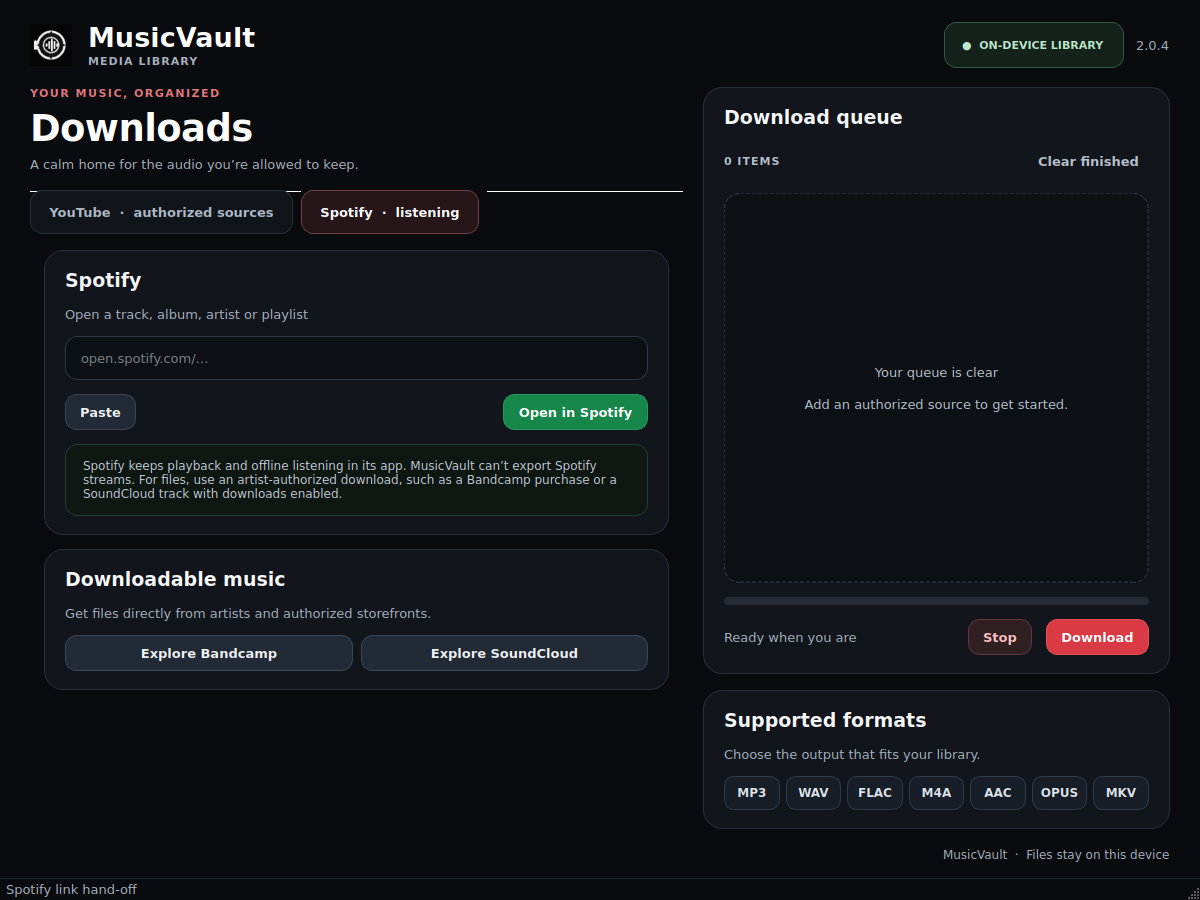
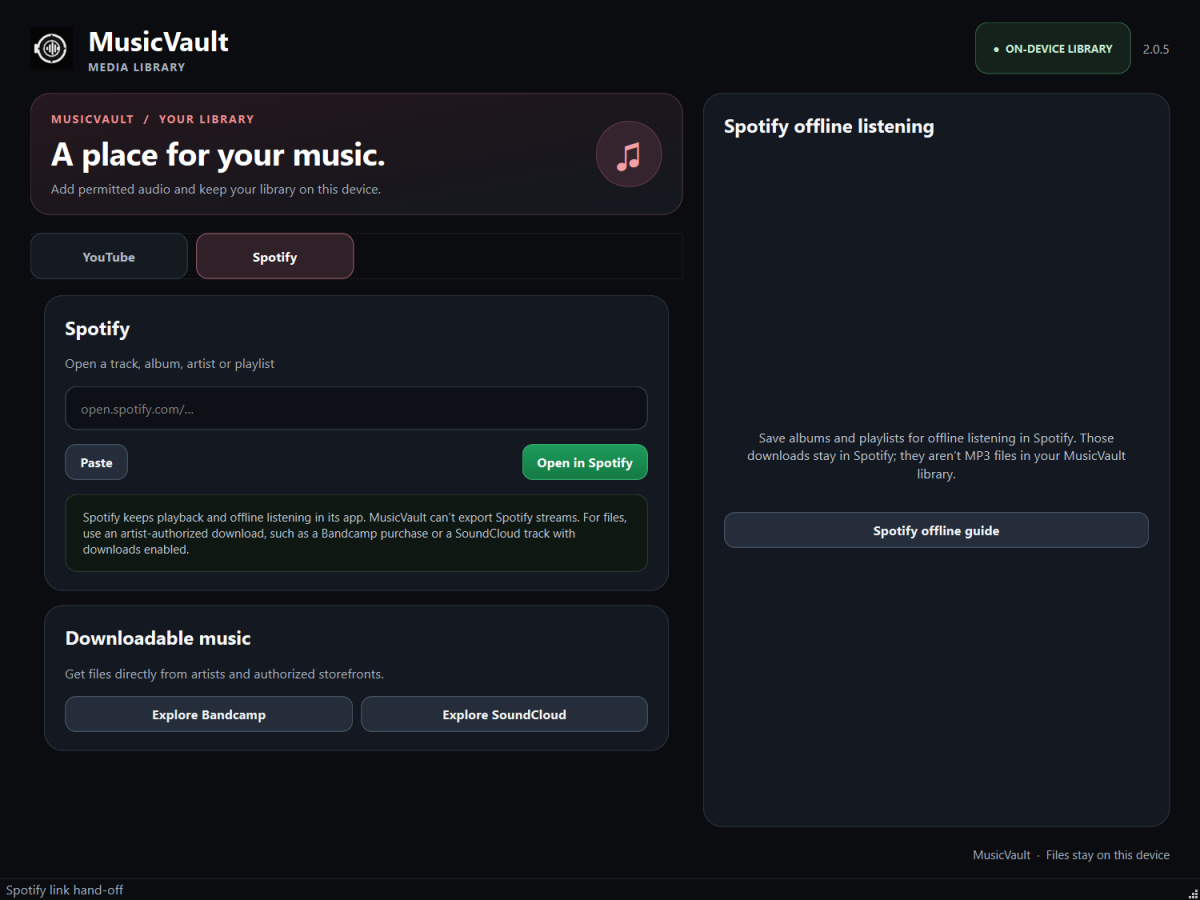
Refresh desktop UI and clarify Spotify offline mode

diff --git a/musicvault_app.py b/musicvault_app.py
@@ -221,18 +221,29 @@ class MusicVaultWindow(QMainWindow):
         left_column = QVBoxLayout()
         left_column.setSpacing(18)
 
-        intro = QVBoxLayout()
-        intro.setSpacing(6)
-        intro_eyebrow = QLabel("YOUR MUSIC, ORGANIZED")
+        hero = QFrame()
+        hero.setObjectName("HeroPanel")
+        hero_copy = QHBoxLayout(hero)
+        hero_copy.setContentsMargins(20, 17, 20, 17)
+        hero_copy.setSpacing(16)
+        hero_text = QVBoxLayout()
+        hero_text.setSpacing(5)
+        intro_eyebrow = QLabel("MUSICVAULT  /  YOUR LIBRARY")
         intro_eyebrow.setObjectName("HeroEyebrow")
-        intro.addWidget(intro_eyebrow)
-        page_title = QLabel("Downloads")
+        hero_text.addWidget(intro_eyebrow)
+        page_title = QLabel("A place for your music.")
         page_title.setObjectName("PageTitle")
-        intro.addWidget(page_title)
-        page_hint = QLabel("A calm home for the audio you’re allowed to keep.")
+        hero_text.addWidget(page_title)
+        page_hint = QLabel("Add permitted audio and keep your library on this device.")
         page_hint.setObjectName("Hint")
-        intro.addWidget(page_hint)
-        left_column.addLayout(intro)
+        hero_text.addWidget(page_hint)
+        hero_copy.addLayout(hero_text, 1)
+        hero_mark = QLabel("♫")
+        hero_mark.setObjectName("HeroMark")
+        hero_mark.setAlignment(Qt.AlignCenter)
+        hero_mark.setFixedSize(66, 66)
+        hero_copy.addWidget(hero_mark)
+        left_column.addWidget(hero)
 
         tabs = QTabWidget()
         tabs.setObjectName("SourceTabs")
@@ -384,8 +395,8 @@ class MusicVaultWindow(QMainWindow):
         sbox.addWidget(sources_card)
         sbox.addStretch(1)
 
-        tabs.addTab(youtube, "YouTube  ·  authorized sources")
-        tabs.addTab(spotify, "Spotify  ·  listening")
+        tabs.addTab(youtube, "YouTube")
+        tabs.addTab(spotify, "Spotify")
         tabs.currentChanged.connect(self._tab_changed)
         left_column.addWidget(tabs, 1)
         columns.addLayout(left_column, 7)
@@ -395,6 +406,7 @@ class MusicVaultWindow(QMainWindow):
         right_column.setSpacing(16)
 
         queue_card, queue_layout = self._card("Download queue")
+        self.queue_card = queue_card
         queue_card.setObjectName("QueueCard")
         queue_header = QHBoxLayout()
         self.queue_count = QLabel("0 ITEMS")
@@ -445,6 +457,7 @@ class MusicVaultWindow(QMainWindow):
         right_column.addWidget(queue_card, 1)
 
         formats_card, formats_layout = self._card("Supported formats")
+        self.formats_card = formats_card
         formats_card.setObjectName("FormatsCard")
         formats_hint = QLabel("Choose the output that fits your library.")
         formats_hint.setObjectName("Hint")
@@ -459,6 +472,27 @@ class MusicVaultWindow(QMainWindow):
             format_rows.addWidget(pill)
         formats_layout.addLayout(format_rows)
         right_column.addWidget(formats_card)
+
+        self.spotify_info_card, spotify_info_layout = self._card("Spotify offline listening")
+        spotify_info_layout.addStretch(1)
+        spotify_info = QLabel(
+            "Save albums and playlists for offline listening in Spotify. Those downloads stay in Spotify; "
+            "they aren’t MP3 files in your MusicVault library."
+        )
+        spotify_info.setObjectName("SpotifyInfo")
+        spotify_info.setWordWrap(True)
+        spotify_info.setAlignment(Qt.AlignCenter)
+        spotify_info_layout.addWidget(spotify_info)
+        spotify_help = MotionButton("Spotify offline guide")
+        spotify_help.setObjectName("SecondaryButton")
+        spotify_help.setMinimumHeight(44)
+        spotify_help.clicked.connect(lambda: self._open_music_source(
+            "https://support.spotify.com/us/article/listen-offline/"
+        ))
+        spotify_info_layout.addWidget(spotify_help)
+        spotify_info_layout.addStretch(1)
+        self.spotify_info_card.hide()
+        right_column.addWidget(self.spotify_info_card, 1)
         columns.addLayout(right_column, 5)
 
         outer.addLayout(columns, 1)
@@ -468,31 +502,38 @@ class MusicVaultWindow(QMainWindow):
 
     def _apply_style(self) -> None:
         self.setStyleSheet("""
-            QMainWindow, QWidget#Root { background:#090B0E; color:#F4F6F8; }
+            QMainWindow, QWidget#Root { background:#0A0C10; color:#F4F6F8; }
             QWidget { color:#F4F6F8; font-family:'Segoe UI',Arial,sans-serif; font-size:10pt; }
             QLabel#Brand { font-size:20pt; font-weight:760; letter-spacing:0.1px; color:#FFFFFF; }
-            QLabel#PageTitle { font-size:28pt; font-weight:760; letter-spacing:-0.6px; color:#FFFFFF; }
-            QLabel#HeroEyebrow { color:#E7777E; font-size:8pt; font-weight:750; letter-spacing:1.5px; }
+            QLabel#PageTitle { font-size:24pt; font-weight:760; letter-spacing:-0.5px; color:#FFFFFF; }
+            QLabel#HeroEyebrow { color:#F08B8E; font-size:8pt; font-weight:750; letter-spacing:1.5px; }
+            QFrame#HeroPanel { border:1px solid #473039; border-radius:20px;
+                background:qlineargradient(x1:0,y1:0,x2:1,y2:1,stop:0 #25171D,stop:0.62 #19171D,stop:1 #14191F); }
+            QLabel#HeroMark { background:#35232D; color:#F2A2A6; border:1px solid #5A3844;
+                border-radius:32px; font-size:27pt; font-weight:650; }
             QLabel#Eyebrow { color:#A8B2C0; font-size:8pt; font-weight:720; letter-spacing:1.1px; }
             QLabel#Version, QLabel#Hint, QLabel#PathLabel, QLabel#Footer { color:#A8B2C0; }
             QLabel#Hint { font-size:10pt; }
             QLabel#Footer { font-size:9pt; }
-            QLabel#LocalBadge { background:#14221B; color:#BCE8CB; border:1px solid #315B40;
-                                border-radius:12px; padding:10px 14px; font-size:8pt; font-weight:730; }
+            QLabel#LocalBadge { background:#14221B; color:#C4ECD2; border:1px solid #315B40;
+                                border-radius:13px; padding:10px 14px; font-size:8pt; font-weight:730; }
             QLabel#SectionTitle { font-size:14pt; font-weight:740; color:#F7F8FA; }
             QLabel#QueueCount { color:#B7C1CE; font-size:8pt; font-weight:730; letter-spacing:1px; }
             QLabel#EmptyState { color:#B8C2CF; background:#0D1116; border:1px dashed #343E4B;
                                 border-radius:16px; padding:24px; font-size:10pt; }
             QLabel#SpotifyNote { color:#C2CBD6; background:#0F1713; border:1px solid #263B2F;
                                  border-radius:12px; padding:14px; font-size:9pt; }
+            QLabel#SpotifyInfo { color:#C2CBD6; background:transparent; border:0;
+                                 padding:16px; font-size:10pt; }
             QLabel#FormatPill { background:#171E27; border:1px solid #303B49; color:#DDE4EC;
                                 border-radius:10px; padding:9px 5px; font-size:9pt; font-weight:720; }
-            QFrame[musicVaultCard="true"] { background:#12161C; border:1px solid #28313C; border-radius:19px; }
+            QFrame[musicVaultCard="true"] { background:#141820; border:1px solid #2A323E; border-radius:19px; }
             QLineEdit, QComboBox, QListWidget {
-                background:#0D1116; border:1px solid #303B48; border-radius:12px;
+                background:#0D1117; border:1px solid #35404D; border-radius:12px;
                 padding:11px 13px; color:#F4F6F8; selection-background-color:#364354;
             }
-            QLineEdit:focus, QComboBox:focus { border:2px solid #899DB6; background:#111720; }
+            QLineEdit:hover, QComboBox:hover { border-color:#586578; }
+            QLineEdit:focus, QComboBox:focus { border:2px solid #E07B83; background:#12171F; }
             QLineEdit::placeholder { color:#9AA6B5; }
             QComboBox::drop-down { border:0; width:28px; }
             QCheckBox { spacing:10px; color:#E1E6ED; }
@@ -503,23 +544,25 @@ class MusicVaultWindow(QMainWindow):
             QTabWidget#SourceTabs::pane { border:0; background:transparent; top:0; }
             QTabWidget#SourceTabs::tab-bar { background:transparent; }
             QTabBar { background:transparent; }
-            QTabBar::tab { min-width:112px; color:#AEB9C7; background:#11151B;
-                           padding:13px 18px; margin-right:8px; border:1px solid #27303B;
+            QTabBar::tab { min-width:112px; color:#AEB9C7; background:#151A21;
+                           padding:13px 22px; margin-right:8px; border:1px solid #2D3744;
                            border-radius:12px; font-weight:690; }
-            QTabBar::tab:selected { color:#FFFFFF; background:#261619; border-color:#714047; }
-            QTabBar::tab:hover:!selected { color:#F0F3F6; background:#1A2029; }
+            QTabBar::tab:selected { color:#FFFFFF; background:#302027; border-color:#87545B; }
+            QTabBar::tab:hover:!selected { color:#F0F3F6; background:#202732; }
             QPushButton { color:#F4F6F8; border:1px solid transparent; border-radius:11px;
                           padding:6px 14px; font-weight:700; min-height:22px; }
             QPushButton:focus { border:2px solid #F4F6F8; }
             QPushButton:disabled { background:#242A33; color:#8C96A4; border-color:#303844; }
-            QPushButton#YoutubeButton { background:#D93A44; color:#FFFFFF; border-color:#E75058; }
-            QPushButton#YoutubeButton:hover { background:#E64952; }
+            QPushButton#YoutubeButton { background:qlineargradient(x1:0,y1:0,x2:0,y2:1,
+                stop:0 #E74750,stop:1 #CF3540); color:#FFFFFF; border-color:#ED646A; }
+            QPushButton#YoutubeButton:hover { background:#ED5059; }
             QPushButton#YoutubeButton:pressed { background:#BA2D36; }
-            QPushButton#SpotifyButton { background:#16864A; color:#FFFFFF; border-color:#29985B; }
-            QPushButton#SpotifyButton:hover { background:#1A9654; }
-            QPushButton#SecondaryButton { background:#222A35; color:#F0F3F6; border-color:#3B4655; }
-            QPushButton#SecondaryButton:hover { background:#2D3744; }
-            QPushButton#StopButton { background:#302022; color:#FFC0C0; border-color:#63373C; }
+            QPushButton#SpotifyButton { background:qlineargradient(x1:0,y1:0,x2:0,y2:1,
+                stop:0 #1E9C5B,stop:1 #147A45); color:#FFFFFF; border-color:#35AC6D; }
+            QPushButton#SpotifyButton:hover { background:#22A562; }
+            QPushButton#SecondaryButton { background:#242D39; color:#F2F5F8; border-color:#465363; }
+            QPushButton#SecondaryButton:hover { background:#303B49; border-color:#586779; }
+            QPushButton#StopButton { background:#332328; color:#FFC9C7; border-color:#70444A; }
             QPushButton#TextButton { background:transparent; color:#B8C2CE; padding:6px 9px; }
             QPushButton#TextButton:hover { color:#FFFFFF; background:#202630; }
             QListWidget#QueueList { border:0; padding:5px; background:#0E1218; }
@@ -527,10 +570,14 @@ class MusicVaultWindow(QMainWindow):
             QListWidget::item:selected { background:#242D39; border-radius:7px; }
             QProgressBar { background:#252C36; border:0; border-radius:4px; height:8px; }
             QProgressBar::chunk { background:#D93640; border-radius:4px; }
-            QStatusBar { color:#A8B2C0; background:#090B0E; border-top:1px solid #202630; }
+            QStatusBar { color:#A8B2C0; background:#0A0C10; border-top:1px solid #252C36; }
         """)
 
     def _tab_changed(self, index: int) -> None:
+        spotify = index == 1
+        self.queue_card.setVisible(not spotify)
+        self.formats_card.setVisible(not spotify)
+        self.spotify_info_card.setVisible(spotify)
         self.statusBar().showMessage("YouTube downloads" if index == 0 else "Spotify link hand-off", 2500)
 
     def _animate_intro(self) -> None:

diff --git a/tests/test_desktop_ui.py b/tests/test_desktop_ui.py
@@ -154,6 +154,27 @@ def test_spotify_tab_and_open_link_action(window, monkeypatch, warnings):
     assert warnings and "official Spotify" in warnings[-1]
 
 
+def test_spotify_tab_shows_offline_help_instead_of_export_controls(window, monkeypatch):
+    assert window.queue_card.isVisible()
+    assert window.formats_card.isVisible()
+    assert not window.spotify_info_card.isVisible()
+
+    window.findChild(QTabWidget, "SourceTabs").setCurrentIndex(1)
+    QApplication.processEvents()
+    assert not window.queue_card.isVisible()
+    assert not window.formats_card.isVisible()
+    assert window.spotify_info_card.isVisible()
+
+    opened = []
+    monkeypatch.setattr(
+        musicvault_app.QDesktopServices,
+        "openUrl",
+        lambda url: opened.append(url.toString()) or True,
+    )
+    click_button(window, "Spotify offline guide")
+    assert opened == ["https://support.spotify.com/us/article/listen-offline/"]
+
+
 def test_spotify_open_failure_shows_recoverable_error(window, monkeypatch, warnings):
     window.findChild(QTabWidget, "SourceTabs").setCurrentIndex(1)
     QApplication.processEvents()

diff --git a/musicvault_core.py b/musicvault_core.py
@@ -17,7 +17,7 @@ from pathlib import Path
 from urllib.parse import parse_qs, urlsplit
 
 APP_NAME = "MusicVault"
-APP_VERSION = "2.0.4"
+APP_VERSION = "2.0.5"
 MAX_URL_LENGTH = 2048
 MAX_PLAYLIST_ITEMS = 500
 MAX_QUEUE_ITEMS = 100

diff --git a/tests/test_core.py b/tests/test_core.py
@@ -107,4 +107,4 @@ def test_format_helpers_handle_invalid_values():
 
 def test_version_identity():
     assert APP_NAME == "MusicVault"
-    assert APP_VERSION == "2.0.4"
+    assert APP_VERSION == "2.0.5"

diff --git a/QA_REPORT.md b/QA_REPORT.md
@@ -1,14 +1,14 @@
-# MusicVault 2.0.4 — QA report
+# MusicVault 2.0.5 — QA report
 
 ## Release downloads
 
-The [v2.0.4 GitHub Release](https://github.com/Bhaveek08/MusicVault/releases/tag/v2.0.4) provides direct desktop downloads:
+The [v2.0.5 GitHub Release](https://github.com/Bhaveek08/MusicVault/releases/tag/v2.0.5) provides direct desktop downloads:
 
 | Platform | Asset | Verification | Distribution caveat |
 | --- | --- | --- | --- |
-| Windows 10/11 x64 | [`MusicVault-Setup.exe`](https://github.com/Bhaveek08/MusicVault/releases/latest/download/MusicVault-Setup.exe) and portable ZIP | Tagged Windows build, packaged smoke test, and Inno Setup compilation passed in [run 44489750371](https://github.com/Bhaveek08/MusicVault/actions/runs/44489750371). | Installer is unsigned. |
-| macOS Apple Silicon | [`MusicVault-macos-arm64.dmg`](https://github.com/Bhaveek08/MusicVault/releases/latest/download/MusicVault-macos-arm64.dmg) | App-bundle smoke test and DMG creation passed in [run 44489750302](https://github.com/Bhaveek08/MusicVault/actions/runs/44489750302). | Unsigned and not notarized; Gatekeeper may warn or block it. Intel Macs are not packaged. |
-| Linux x86_64 | [`MusicVault-Linux-x86_64.tar.gz`](https://github.com/Bhaveek08/MusicVault/releases/latest/download/MusicVault-Linux-x86_64.tar.gz) | Portable build and packaged GUI smoke test passed in [run 44489750317](https://github.com/Bhaveek08/MusicVault/actions/runs/44489750317). | Host Qt/X11 runtime libraries are required. |
+| Windows 10/11 x64 | [`MusicVault-Setup.exe`](https://github.com/Bhaveek08/MusicVault/releases/latest/download/MusicVault-Setup.exe) and portable ZIP | v2.0.5 tagged build verification will be recorded after release workflows complete. | Installer is unsigned. |
+| macOS Apple Silicon | [`MusicVault-macos-arm64.dmg`](https://github.com/Bhaveek08/MusicVault/releases/latest/download/MusicVault-macos-arm64.dmg) | v2.0.5 tagged build verification will be recorded after release workflows complete. | Unsigned and not notarized; Gatekeeper may warn or block it. Intel Macs are not packaged. |
+| Linux x86_64 | [`MusicVault-Linux-x86_64.tar.gz`](https://github.com/Bhaveek08/MusicVault/releases/latest/download/MusicVault-Linux-x86_64.tar.gz) | v2.0.5 tagged build verification will be recorded after release workflows complete. | Host Qt/X11 runtime libraries are required. |
 | Android | No production release asset | Debug APK installed and the Downloads page rendered on an Android 15/API 35 emulator in [run 44436830729](https://github.com/Bhaveek08/MusicVault/actions/runs/44436830729). | UI prototype only; no media engine, signed AAB, or Play Store build. |
 | iOS/iPadOS | No device-installable release asset | Simulator app built, installed, and launched in [run 44436830729](https://github.com/Bhaveek08/MusicVault/actions/runs/44436830729). | UI prototype only; no media engine, signed device IPA, TestFlight, or App Store build. |
 
@@ -16,9 +16,9 @@ The mobile clients validate links, stage a local preview queue, and hand officia
 
 ## Regression and security checks
 
-For the v2.0.4 source, all 86 pytest cases passed locally, the release QA runner passed 50 consecutive runs on Windows, and the six-job [CI run 44489381079](https://github.com/Bhaveek08/MusicVault/actions/runs/44489381079) passed on Windows, macOS 15, and Ubuntu with Python 3.11 and 3.13. The [CodeQL run 44489380974](https://github.com/Bhaveek08/MusicVault/actions/runs/44489380974) passed.
+For the v2.0.5 source, all 87 pytest cases passed locally; the 50-pass QA run and remote CI are running for the release candidate. The previous v2.0.4 six-job [CI run 44489381079](https://github.com/Bhaveek08/MusicVault/actions/runs/44489381079) passed on Windows, macOS 15, and Ubuntu with Python 3.11 and 3.13. The [CodeQL run 44489380974](https://github.com/Bhaveek08/MusicVault/actions/runs/44489380974) passed for v2.0.4.
 
-The [Mobile UI run 44489381095](https://github.com/Bhaveek08/MusicVault/actions/runs/44489381095) passed source-policy checks, shared WebView button/error interaction checks on Windows and Ubuntu, target-readiness checks, and rendered UI previews. Current desktop previews show the visible app window at 1200 × 900; mobile previews are touch-first at 390 × 844. Android and iOS native clients remain prototypes, as described above.
+The [Mobile UI run 44489381095](https://github.com/Bhaveek08/MusicVault/actions/runs/44489381095) passed source-policy checks, shared WebView button/error interaction checks on Windows and Ubuntu, target-readiness checks, and rendered UI previews for v2.0.4. Current desktop previews show the visible app window at 1200 × 900; mobile previews are touch-first at 390 × 844. Android and iOS native clients remain prototypes, as described above.
 
 Test coverage includes strict YouTube and Spotify URL handling, permission and playlist gating, invalid-input errors, clipboard success/failure, folder selection and cancellation, queue capacity and clearing, progress/failure states, download/stop control wiring, authorized-storefront link actions, minimum-height button/card geometry, non-overlapping columns, long-path elision, format selection, output-folder validation, and downloader option constraints. The shared mobile UI tests cover all seven interactive controls and recoverable error cases.
 

diff --git a/README.md b/README.md
@@ -13,7 +13,7 @@ MusicVault provides a single desktop window for managing permitted YouTube media
 - **Spotify:** validate and open official track, album, artist, or playlist links. Spotify playback and offline listening stay in Spotify; the app links to Bandcamp and to SoundCloud tracks whose artists enable downloads.
 - **Formats:** MP3, WAV, FLAC, M4A, AAC, OPUS, and MKV. Lossy audio exports target 320 kbps where supported; source quality remains the limit.
 - **Workflow:** playlist opt-in, queue management, progress, cancellation, remembered output folder, and collision-safe filenames.
-- **Interface:** black-first theme, YouTube red and Spotify green accents, lightweight button feedback, and animated progress.
+- **Interface:** a spacious midnight dashboard, source-aware panels, YouTube red and Spotify green accents, responsive focus/hover states, and animated progress.
 
 MusicVault does not bypass DRM, sign-in walls, private/member-only restrictions, browser sessions, or platform access controls.
 

diff --git a/CHANGELOG.md b/CHANGELOG.md
@@ -1,5 +1,11 @@
 # Changelog
 
+## 2.0.5 — 2026-11-19
+
+- Refresh the full desktop experience with a library hero, balanced source tabs, richer surface colors, and consistent focus/hover states.
+- Make the Spotify view contextual: hide file-export controls there and show Spotify's official offline-listening guide instead.
+- Improve the desktop UI previews and cover the contextual Spotify controls in interaction tests.
+
 ## 2.0.4 — 2026-11-19
 
 - Refresh the desktop interface with stronger hierarchy, calmer surfaces, more generous spacing, and a higher minimum window height to prevent clipping.
